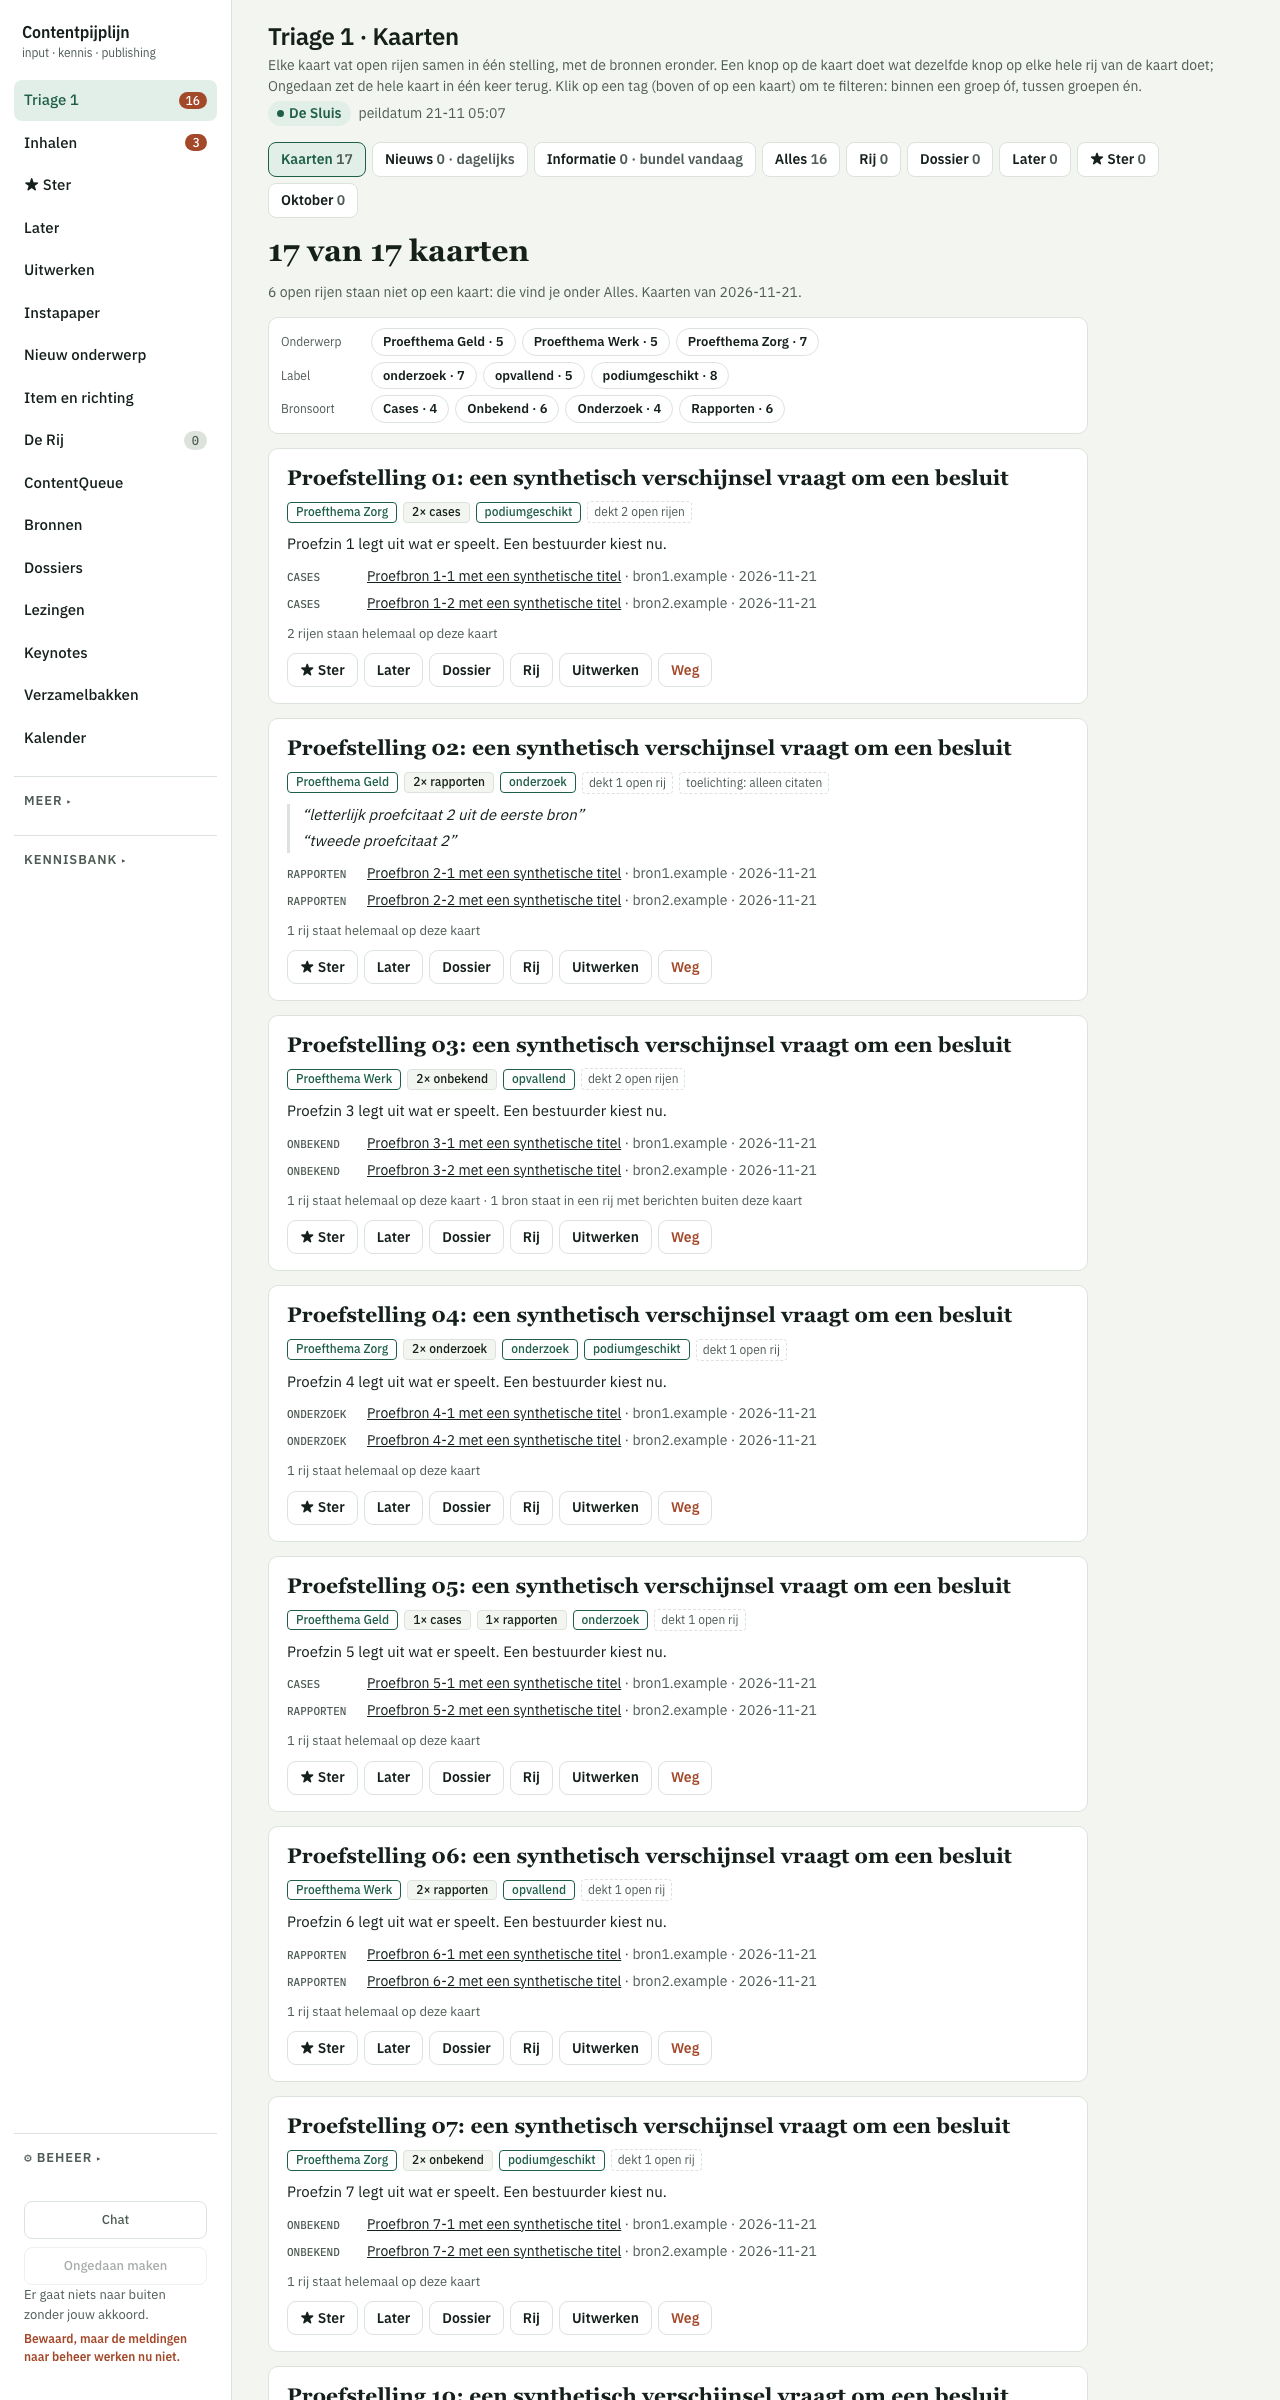
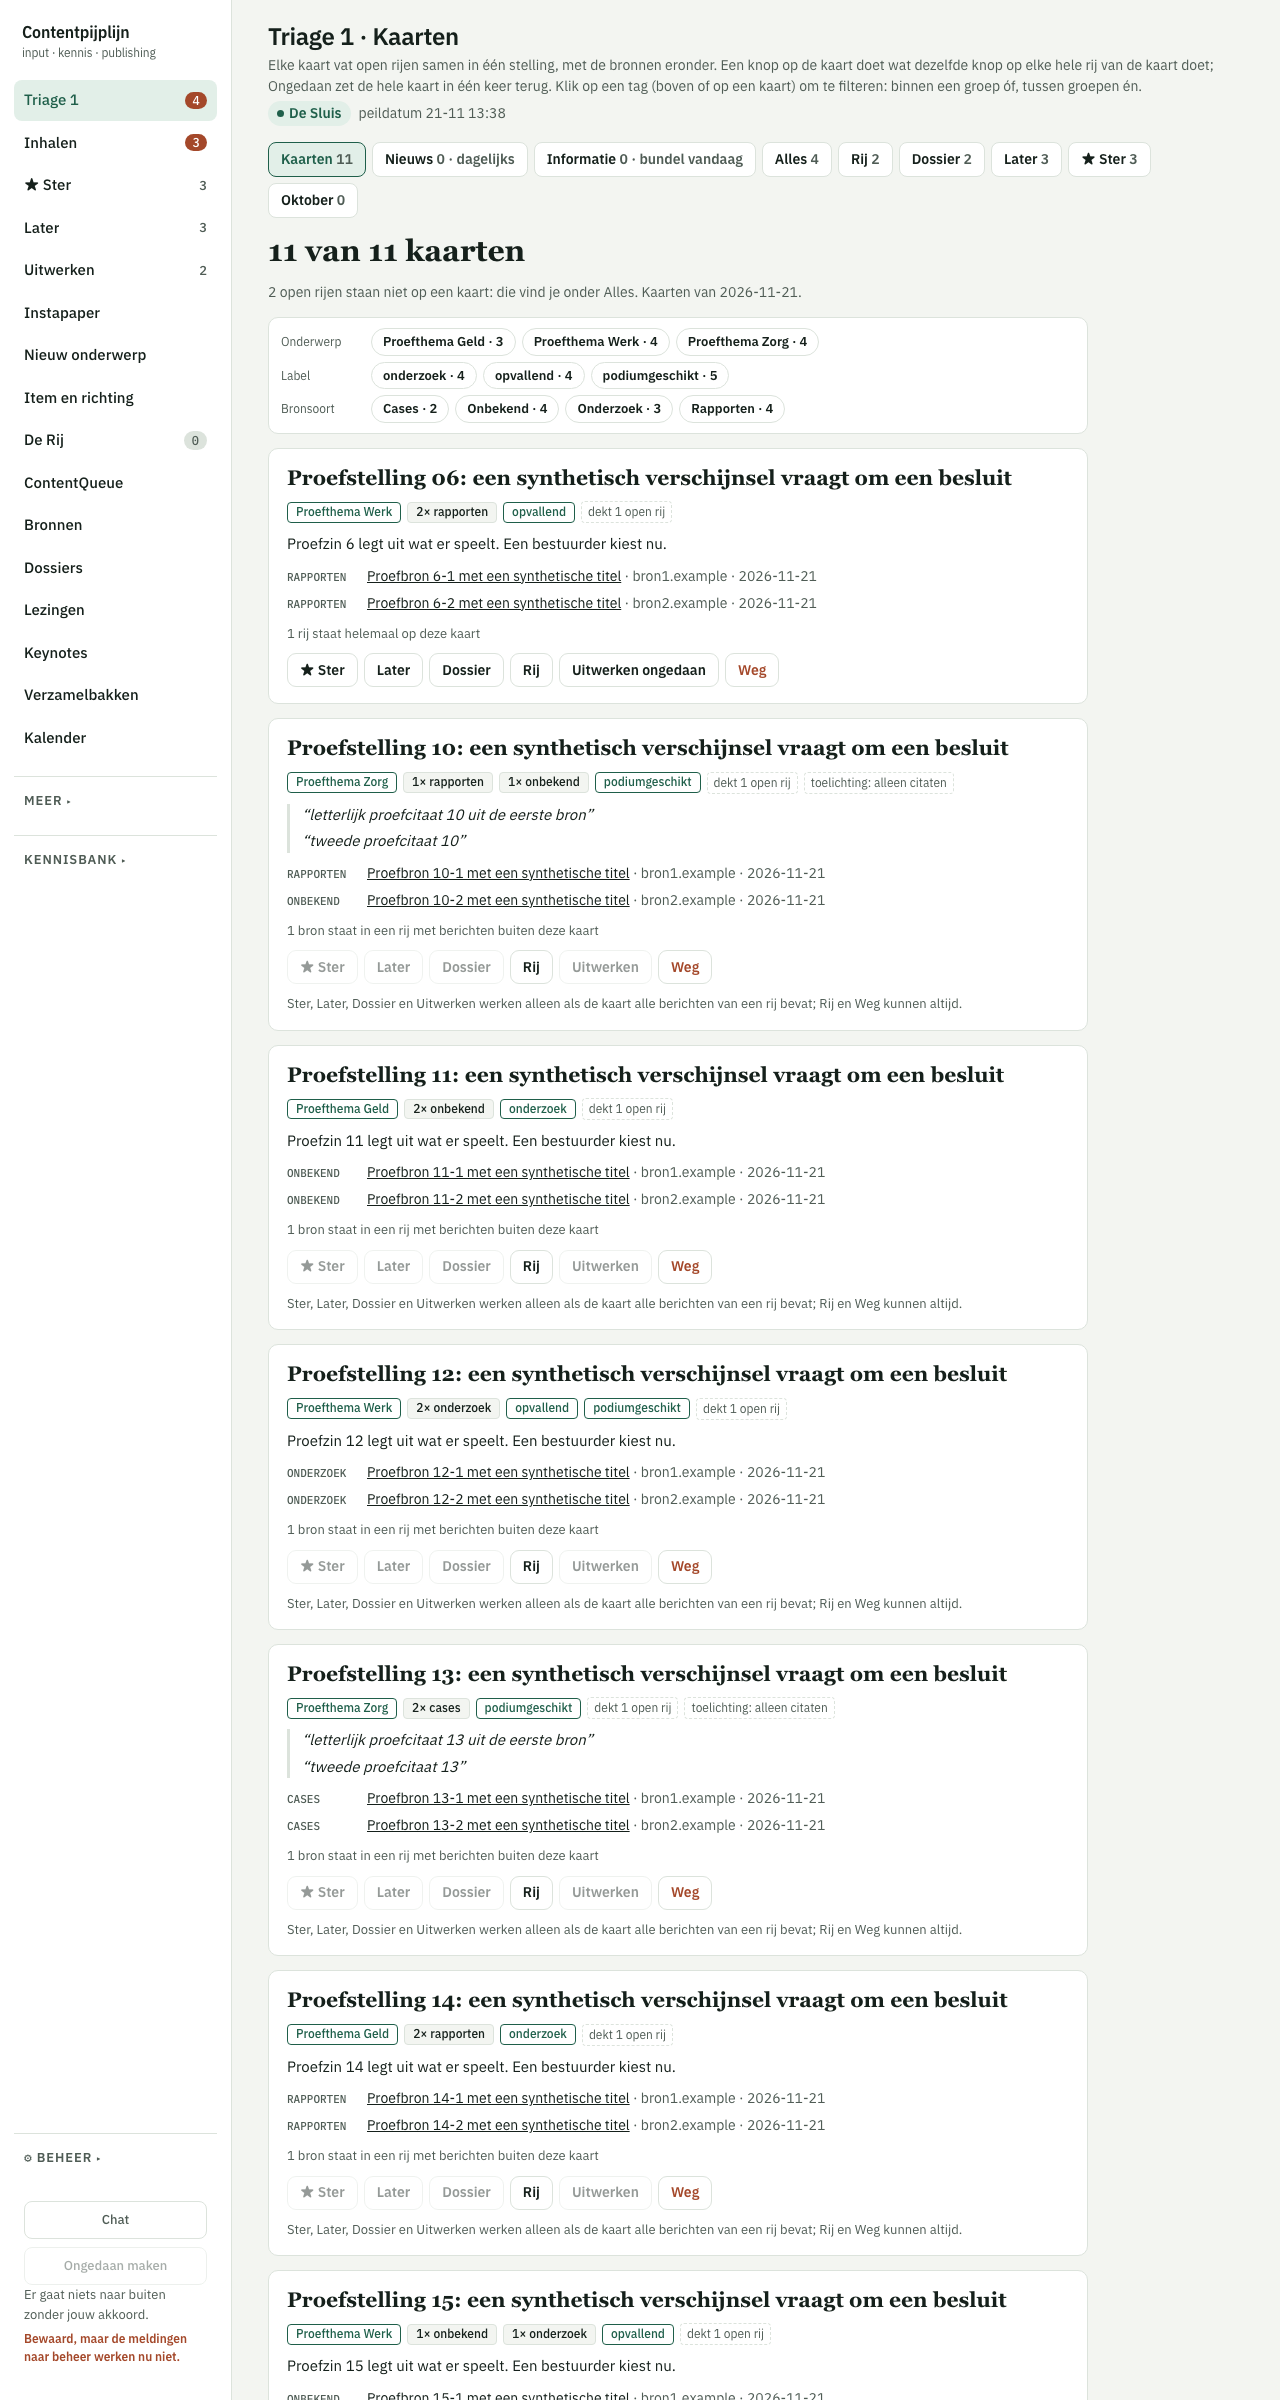
Schermen 5b na herbouw; Uitwerken-scherm afgekeurd

diff --git a/schermen-akkoord/index.html b/schermen-akkoord/index.html
@@ -26,10 +26,10 @@ img{display:block;width:100%;height:auto;border-radius:4px}
 </head><body>
 <div class="wrap">
 <h1>Schermen voor akkoord</h1>
-<p class="sub">Twee schermwijzigingen in de contentpijplijn die jouw sjabloon-akkoord nodig hebben. Alle schermen tonen proefgegevens, geen echte items. Beide staan achter een schakelaar die uit staat; met de schakelaar uit verandert er niets.</p>
+<p class="sub">De kaartweergave van Triage 1 en Inhalen, opnieuw gebouwd op de Rij-functie die al live staat (21-11, 13:5x). Alle schermen tonen proefgegevens, geen echte items. De schakelaar staat uit; met de schakelaar uit verandert er niets.</p>
 
 <h2>1. Kaartweergave Triage en Inhalen</h2>
-<p>Samenhangende berichten op één kaart, met filters en tellingen. Rij (met opmerking) en Weg werken op elke kaart. Goedgekeurd door de controleur en door TRECHTER.</p>
+<p>Samenhangende berichten op één kaart, met filters en tellingen. Rij (met opmerking) en Weg werken op elke kaart. Herbouwd op de bestaande Rij-functie; de testrun is groen, op 13 bekende fouten na die ook in de huidige versie zitten. De controleur kijkt nu naar de herbouw.</p>
 <div class="paste"><code id="a1">Sjabloon ja op de kaartweergave Triage/Inhalen (5b)</code><button data-c="a1">Kopieer</button></div>
 <figure><figcaption>Triage 1, licht</figcaption><img src="5b-triage1-licht.png" alt="Triage 1 als kaarten, licht thema"></figure>
 <figure><figcaption>Triage 1 met twee filters actief ("5 van 17 kaarten")</figcaption><img src="5b-triage1-licht-filter.png" alt="Triage 1 met filters"></figure>
@@ -38,19 +38,8 @@ img{display:block;width:100%;height:auto;border-radius:4px}
 <figure><figcaption>Triage 1, donker, met filters</figcaption><img src="5b-triage1-donker-filter.png" alt="Triage 1 donker met filters"></figure>
 <figure><figcaption>Inhalen</figcaption><img src="5b-inhalen-licht.png" alt="Inhalen als kaarten"></figure>
 
-<h2>2. Splitsen van onderdelen: wat er met je klik gebeurt</h2>
-<p>Na een klik op Uitwerken zie je per item eerlijk de stand: wacht, bezig, klaar, of mislukt met de reden. Het ontwerp kreeg van twee controleurs een ja; de bouw is in vijf rondes nagekeken. Het scherm is sinds deze beelden niet meer veranderd.</p>
-<div class="paste"><code id="a2">Sjabloon ja op het Uitwerken-scherm (splitsen)</code><button data-c="a2">Kopieer</button></div>
-<figure><figcaption>Uitwerken met drie items die wachten</figcaption><img src="eo-01-desktop.png" alt="Uitwerken, drie items wachten"></figure>
-<figure><figcaption>Stand 2</figcaption><img src="eo-02-desktop.png" alt="Uitwerken stand 2"></figure>
-<figure><figcaption>Stand 3</figcaption><img src="eo-03-desktop.png" alt="Uitwerken stand 3"></figure>
-<figure><figcaption>Stand 4</figcaption><img src="eo-04-desktop.png" alt="Uitwerken stand 4"></figure>
-<figure><figcaption>Stand 5</figcaption><img src="eo-05-desktop.png" alt="Uitwerken stand 5"></figure>
-<figure><figcaption>Stand 6</figcaption><img src="eo-06-desktop.png" alt="Uitwerken stand 6"></figure>
-<figure><figcaption>Stand 7</figcaption><img src="eo-07-desktop.png" alt="Uitwerken stand 7"></figure>
-<figure><figcaption>Stand 8</figcaption><img src="eo-08-desktop.png" alt="Uitwerken stand 8"></figure>
-<figure><figcaption>Stand 9</figcaption><img src="eo-09-desktop.png" alt="Uitwerken stand 9"></figure>
-<figure><figcaption>Met de schakelaar uit: zoals nu</figcaption><img src="vlag-uit-desktop.png" alt="Uitwerken met schakelaar uit"></figure>
+<h2>2. Uitwerken-scherm</h2>
+<p>Afgekeurd door Richard op 21-11 (tekst tegen de rand, geen kop, uitwerking onduidelijk). Er komt een nieuw ontwerp als aparte pagina.</p>
 </div>
 <script>
 document.querySelectorAll('.paste button').forEach(function(b){b.addEventListener('click',function(){var el=document.getElementById(b.getAttribute('data-c'));function sel(){var r=document.createRange();r.selectNodeContents(el);var s=getSelection();s.removeAllRanges();s.addRange(r);}try{navigator.clipboard.writeText(el.textContent).then(function(){b.textContent='Gekopieerd';setTimeout(function(){b.textContent='Kopieer'},1500)},sel);}catch(e){sel();}});});
